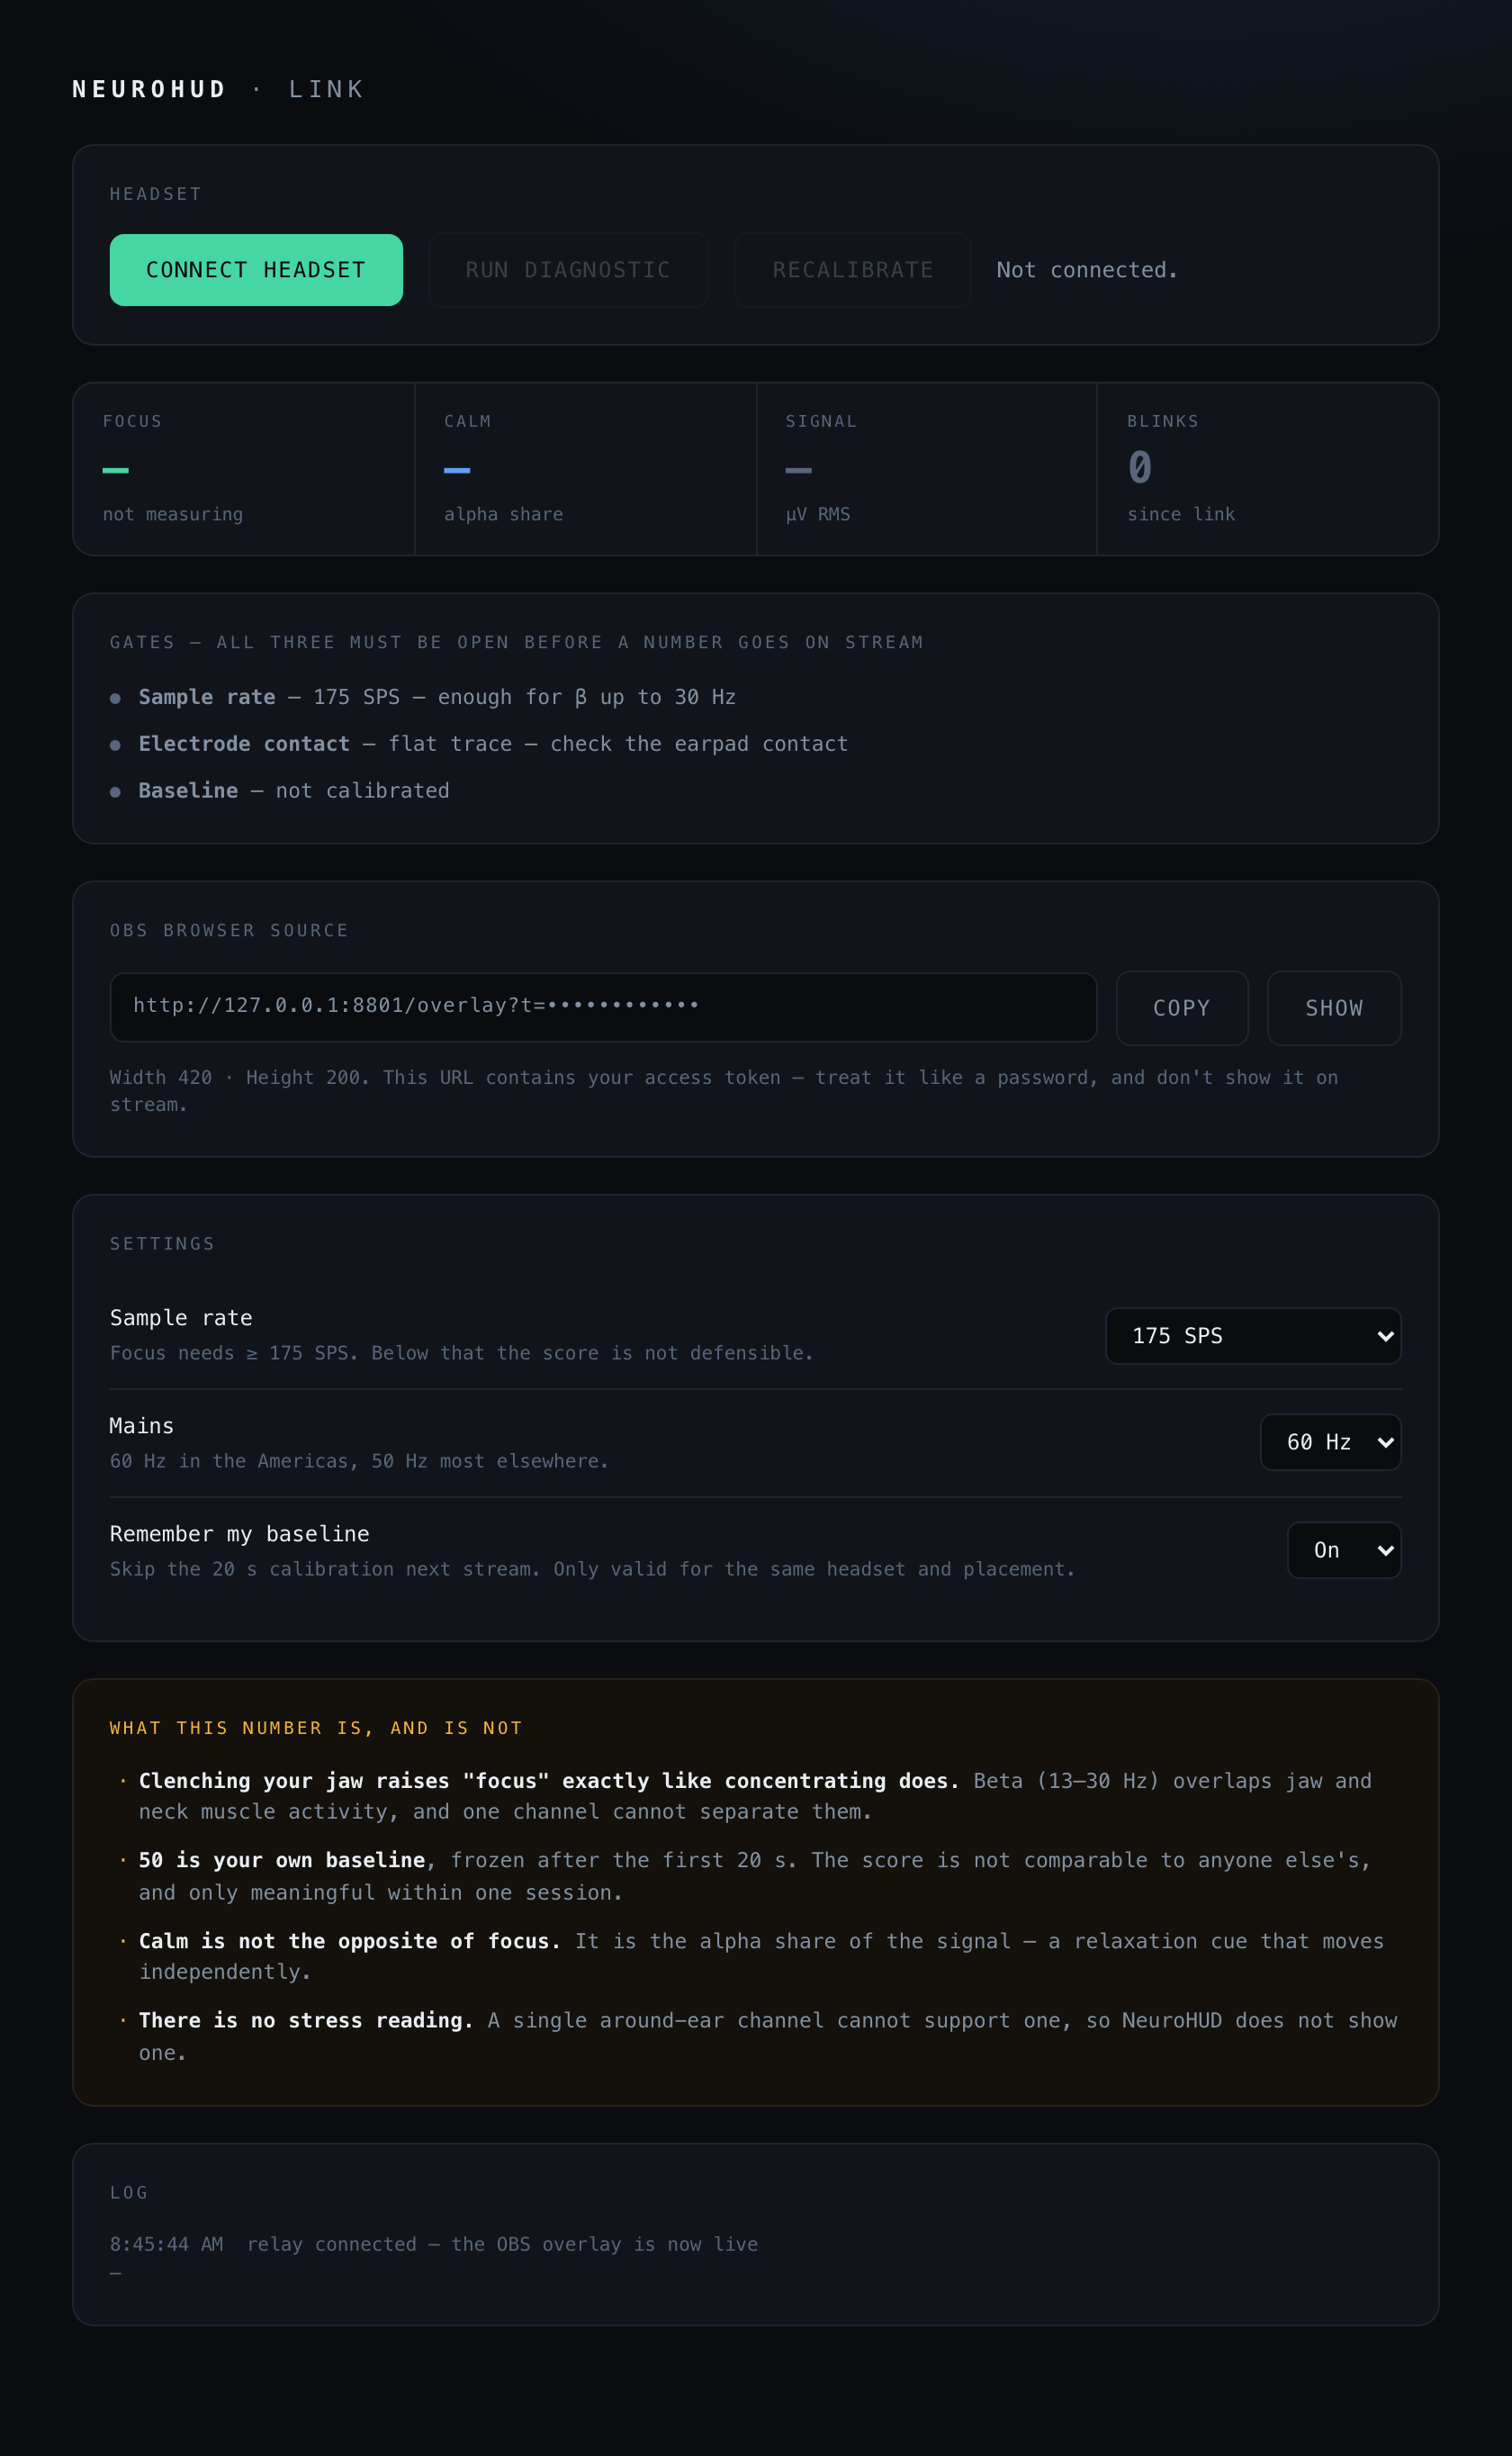
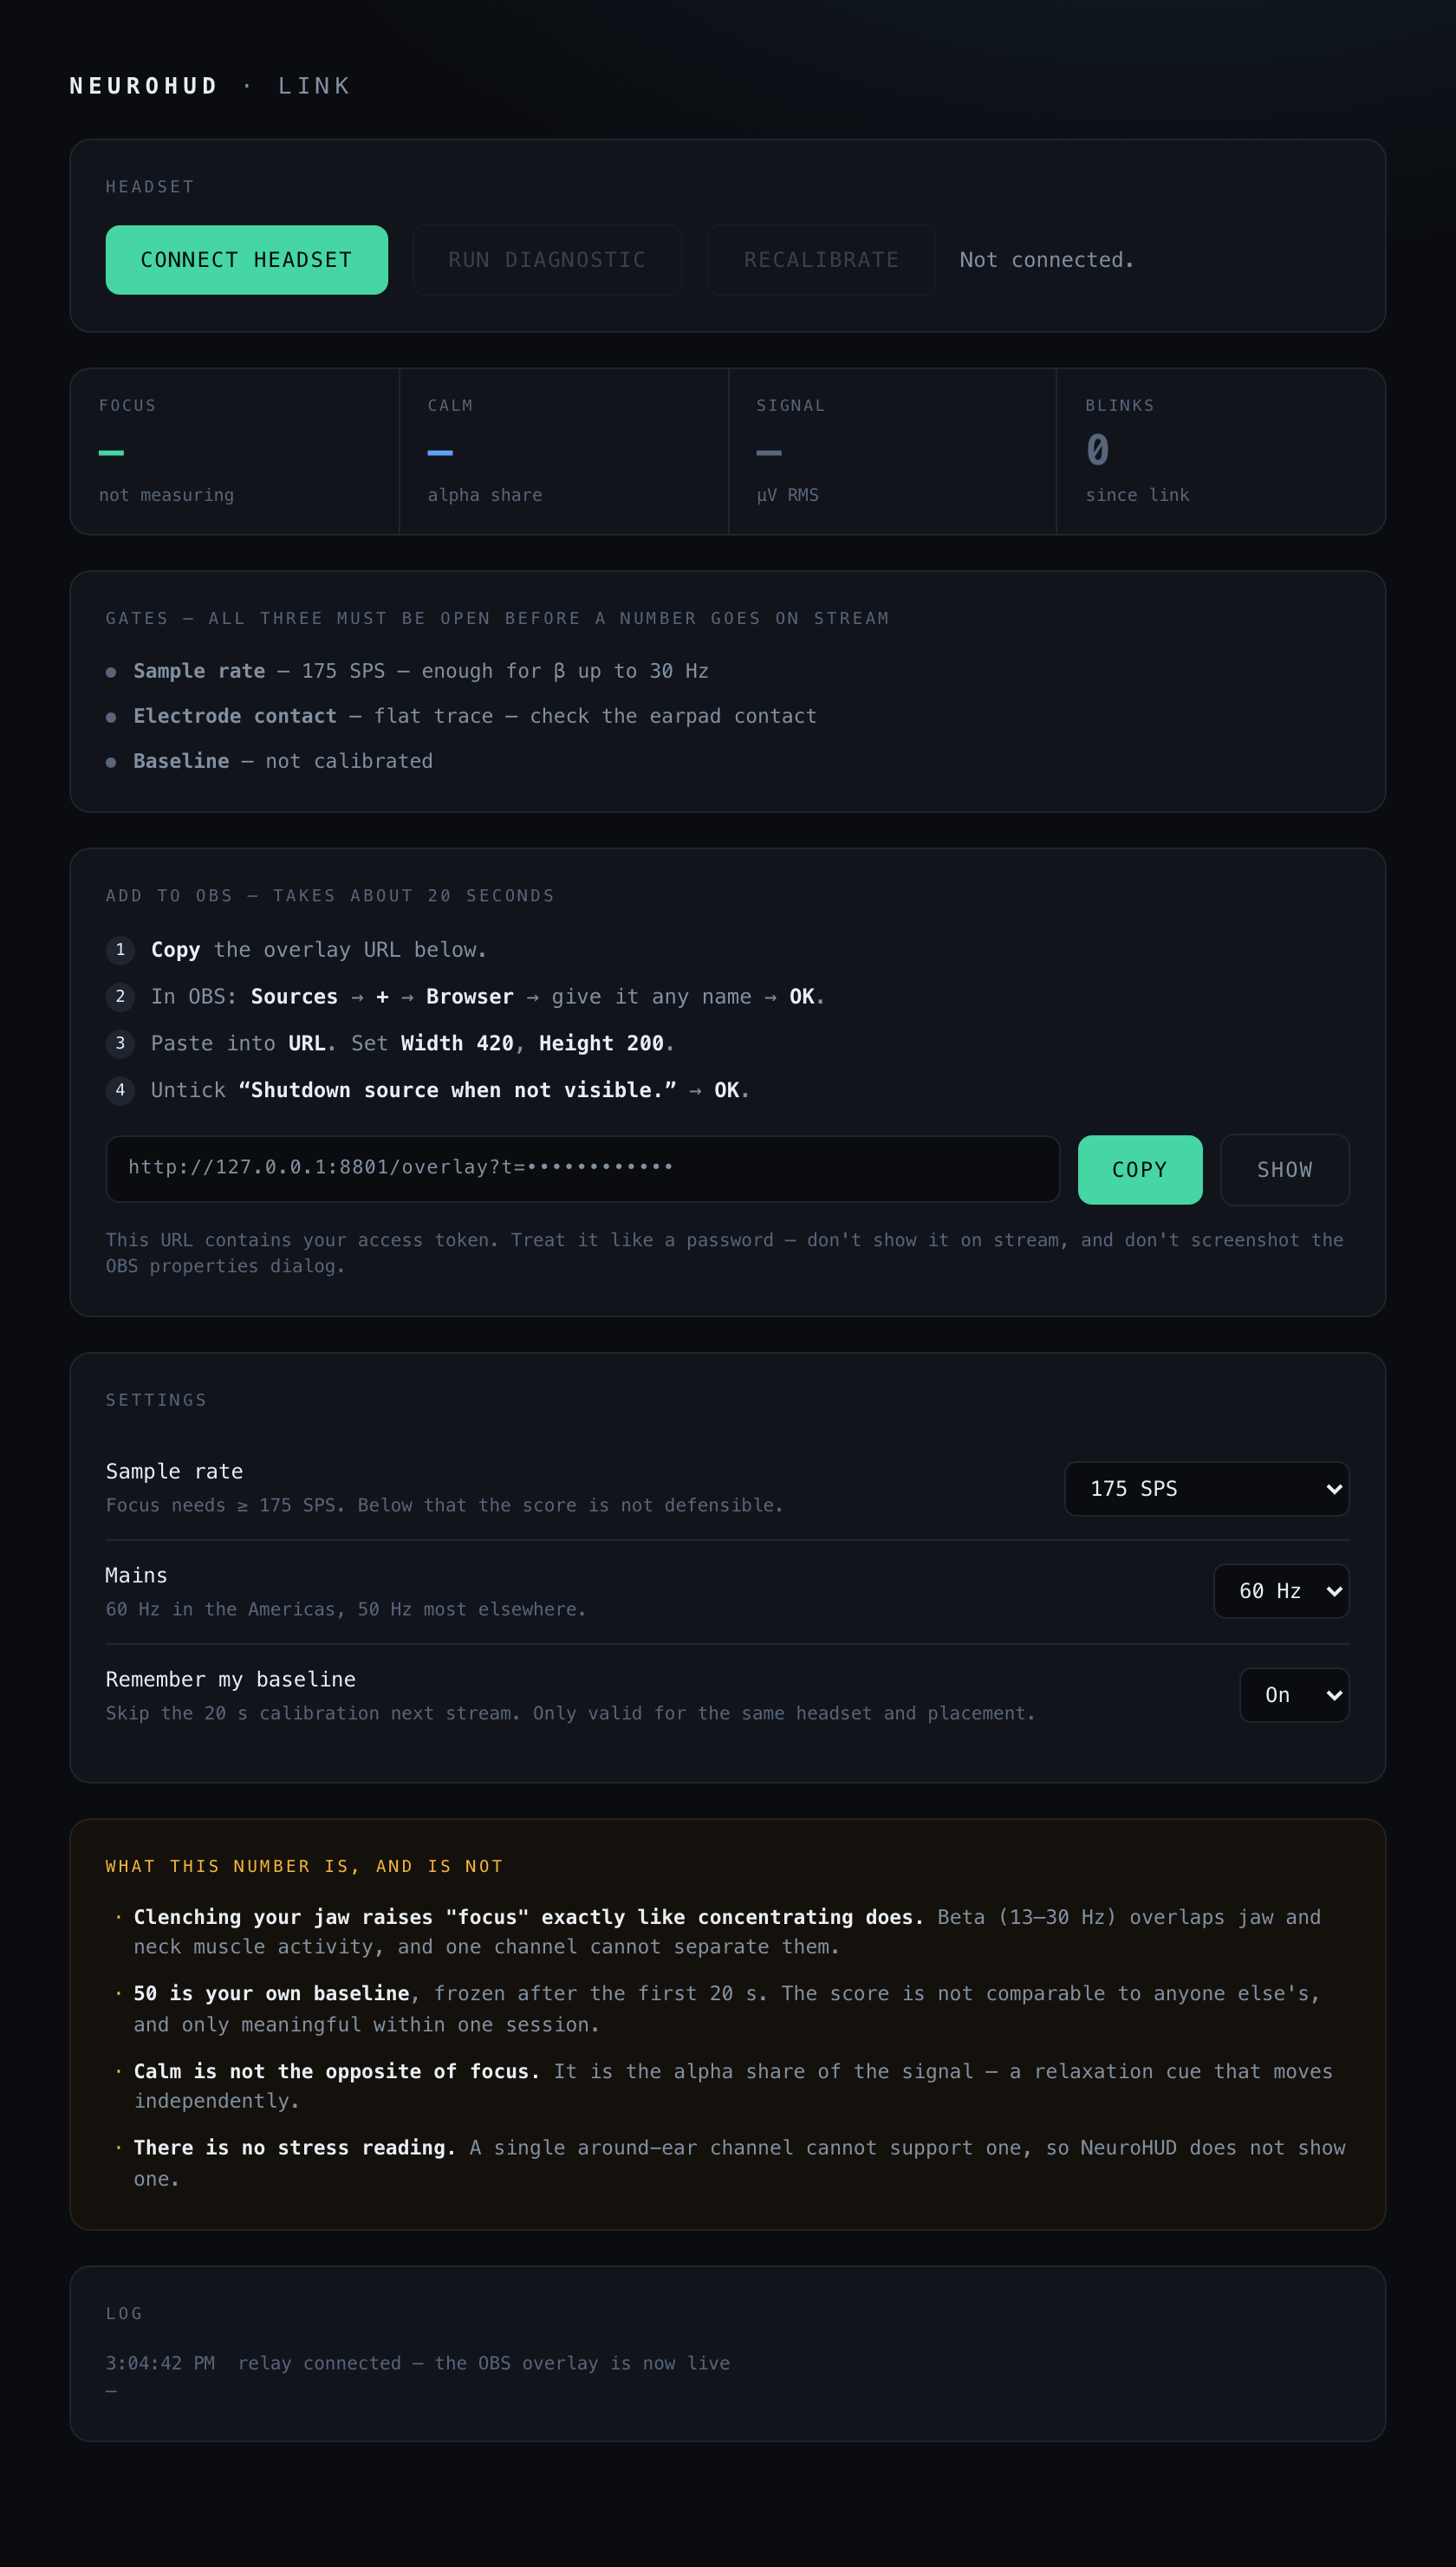
Ship standalone binaries: download one file, run it, browser opens
Answering "how does a user actually run this?" Before: install Bun, clone, bun
install, bun start, read a 43-char token out of a terminal, copy two URLs. That
is a developer onboarding, not a streamer one.

Now: download one file from Releases, run it, and the setup page opens by itself.
Connect the headset, hit Copy, paste into an OBS Browser Source. No terminal, no
Node, no git.

Fixes a bug that made the binary impossible:

  import.meta.url does not point anywhere real inside a `bun build --compile`
  binary — modules live in Bun's virtual filesystem (/$bunfs/root). Walking `..`
  from there resolved to `/`, so the server died on boot trying to mkdir /state:
  EROFS, read-only file system. It crashed instantly for anyone who ran the
  binary, while `bun start` from source worked perfectly. config.ts now detects
  the compiled case and uses the OS user-data directory (~/Library/Application
  Support/NeuroHUD, %APPDATA%\NeuroHUD, ~/.local/share/neurohud) — the binary may
  well sit in Downloads or on a read-only volume.

- server auto-opens the setup page (--no-open / NEUROHUD_NO_OPEN to suppress)
- the link page now spells out the four OBS steps, token masked until asked for
- scripts/build-binaries.ts cross-compiles macOS arm64/x64, Windows, Linux

Verified the macOS binary end-to-end from an empty directory: pages served,
bundled JS served, token generated 0600 in the user-data dir, 403 without it,
[…]

diff --git a/src/link/index.html b/src/link/index.html
@@ -240,6 +240,46 @@
 
 			/* ── overlay URL ────────────────────────────────────────────────────────── */
 
+			#obs-steps {
+				list-style: none;
+				counter-reset: step;
+				display: grid;
+				gap: 9px;
+				margin-bottom: 16px;
+			}
+			#obs-steps li {
+				counter-increment: step;
+				position: relative;
+				padding-left: 26px;
+				font-size: 12px;
+				color: var(--ink-dim);
+			}
+			#obs-steps li::before {
+				content: counter(step);
+				position: absolute;
+				left: 0;
+				top: 1px;
+				width: 17px;
+				height: 17px;
+				border-radius: 50%;
+				background: var(--edge);
+				color: var(--ink);
+				font-size: 9.5px;
+				display: grid;
+				place-items: center;
+			}
+			#obs-steps b {
+				color: var(--ink);
+				font-weight: 600;
+			}
+
+			.warn-line {
+				margin-top: 12px;
+				font-size: 10.5px;
+				line-height: 1.5;
+				color: var(--ink-faint);
+			}
+
 			#url-box {
 				display: flex;
 				gap: 10px;
@@ -362,15 +402,24 @@
 			</section>
 
 			<section class="card">
-				<h2>OBS browser source</h2>
+				<h2>Add to OBS — takes about 20 seconds</h2>
+
+				<ol id="obs-steps">
+					<li><b>Copy</b> the overlay URL below.</li>
+					<li>In OBS: <b>Sources</b> → <b>+</b> → <b>Browser</b> → give it any name → <b>OK</b>.</li>
+					<li>Paste into <b>URL</b>. Set <b>Width 420</b>, <b>Height 200</b>.</li>
+					<li>Untick <b>“Shutdown source when not visible.”</b> → <b>OK</b>.</li>
+				</ol>
+
 				<div id="url-box">
 					<div id="overlay-url" class="masked">—</div>
-					<button id="copy" class="ghost">Copy</button>
+					<button id="copy">Copy</button>
 					<button id="reveal" class="ghost">Show</button>
 				</div>
-				<p class="desc" style="margin-top: 10px; color: var(--ink-faint); font-size: 10.5px">
-					Width 420 · Height 200. This URL contains your access token — treat it like a
-					password, and don't show it on stream.
+
+				<p class="warn-line">
+					This URL contains your access token. Treat it like a password — don't show it on
+					stream, and don't screenshot the OBS properties dialog.
 				</p>
 			</section>
 

diff --git a/scripts/build-binaries.ts b/scripts/build-binaries.ts
@@ -1,0 +1,44 @@
+// Build standalone, single-file executables — no Bun, no Node, no git, no terminal literacy.
+//
+//   bun run build          → dist/neurohud-<platform>[.exe]
+//
+// This is the difference between "developers can use this" and "streamers can use this". A
+// streamer downloads one file, runs it, and their browser opens on the setup page. Everything
+// else — the headset, the OBS URL — happens there.
+
+import { $ } from 'bun';
+import { mkdir, rm } from 'node:fs/promises';
+import { join } from 'node:path';
+
+const ROOT = join(import.meta.dirname, '..');
+const DIST = join(ROOT, 'dist');
+
+/** Bun's cross-compilation targets. macOS arm64 is the dev box; the rest are cross-built. */
+const TARGETS = [
+	{ target: 'bun-darwin-arm64', out: 'neurohud-macos-arm64', label: 'macOS (Apple Silicon)' },
+	{ target: 'bun-darwin-x64', out: 'neurohud-macos-x64', label: 'macOS (Intel)' },
+	{ target: 'bun-windows-x64', out: 'neurohud-windows-x64.exe', label: 'Windows' },
+	{ target: 'bun-linux-x64', out: 'neurohud-linux-x64', label: 'Linux' }
+] as const;
+
+await rm(DIST, { recursive: true, force: true });
+await mkdir(DIST, { recursive: true });
+
+for (const { target, out, label } of TARGETS) {
+	process.stdout.write(`  ${label.padEnd(24)} `);
+	try {
+		await $`bun build --compile --minify --target=${target} ${join(ROOT, 'server.ts')} --outfile ${join(DIST, out)}`.quiet();
+		const size = Bun.file(join(DIST, out)).size;
+		console.log(`✓ dist/${out}  (${(size / 1e6).toFixed(0)} MB)`);
+	} catch (e) {
+		console.log(`✗ ${e instanceof Error ? e.message.split('\n')[0] : e}`);
+	}
+}
+
+console.log(`
+  Each binary embeds the Bun runtime, both pages, and the DSP. Nothing else to install.
+
+  On first run it generates its access token into the OS user-data directory
+  (~/Library/Application Support/NeuroHUD, %APPDATA%\\NeuroHUD, ~/.local/share/neurohud)
+  — NOT next to the executable, which may sit in Downloads or on a read-only volume.
+`);

diff --git a/src/lib/config.ts b/src/lib/config.ts
@@ -1,16 +1,51 @@
 // Runtime configuration. Nothing here is hardcoded and nothing here is committed — the token is
-// generated on first run and lives in `state/`, which is gitignored.
+// generated on first run and lives in the state directory, which is gitignored.
 
 import { existsSync, mkdirSync, readFileSync, writeFileSync, chmodSync } from 'node:fs';
+import { homedir, platform } from 'node:os';
 import { dirname, join, resolve } from 'node:path';
 import { fileURLToPath } from 'node:url';
 
 import { generateToken } from './security';
 
-const ROOT = resolve(dirname(fileURLToPath(import.meta.url)), '..', '..');
+/**
+ * True when running from a `bun build --compile` binary rather than from source.
+ *
+ * Inside a standalone binary the module lives in Bun's virtual filesystem (`/$bunfs/root` on
+ * unix, `B:\~BUN\root` on Windows), so `import.meta.url` does NOT point at anywhere real. Walking
+ * `..` from there used to resolve to `/`, and the server died on boot trying to `mkdir /state`
+ * — EROFS. A streamer double-clicking the binary would have seen it crash instantly.
+ */
+const COMPILED = /[\\/]\$bunfs[\\/]|~BUN/.test(import.meta.url);
 
-/** Generated secrets, the OBS text-source mirror. Gitignored — never commit this directory. */
-export const STATE_DIR = join(ROOT, 'state');
+/**
+ * Where the generated token and the OBS text mirror live.
+ *
+ * From source: `state/` in the repo, which is gitignored and easy to find.
+ * From a binary: the OS's per-user data directory, because the binary may sit anywhere — in
+ * Downloads, on a read-only volume, or in a directory the user cannot write to.
+ */
+function stateDir(): string {
+	const override = process.env.NEUROHUD_STATE_DIR;
+	if (override) return override;
+
+	if (!COMPILED) {
+		return join(resolve(dirname(fileURLToPath(import.meta.url)), '..', '..'), 'state');
+	}
+
+	const home = homedir();
+	switch (platform()) {
+		case 'darwin':
+			return join(home, 'Library', 'Application Support', 'NeuroHUD');
+		case 'win32':
+			return join(process.env.APPDATA ?? join(home, 'AppData', 'Roaming'), 'NeuroHUD');
+		default:
+			return join(process.env.XDG_DATA_HOME ?? join(home, '.local', 'share'), 'neurohud');
+	}
+}
+
+/** Generated secrets, and the OBS text-source mirror. Never commit this directory. */
+export const STATE_DIR = stateDir();
 export const TOKEN_FILE = join(STATE_DIR, 'token');
 export const TEXT_FILE = join(STATE_DIR, 'focus.txt');
 

diff --git a/server.ts b/server.ts
@@ -19,7 +19,9 @@
 // See `src/lib/security.ts` for why an *unauthenticated* localhost WebSocket is a hole and not
 // a convenience.
 
+import { spawn } from 'node:child_process';
 import { mkdir, writeFile } from 'node:fs/promises';
+import { platform } from 'node:os';
 
 import linkPage from './src/link/index.html';
 import overlayPage from './src/overlay/index.html';
@@ -194,20 +196,17 @@ function log(msg: string): void {
 }
 
 const link = `${cfg.origin}/link?t=${cfg.token}`;
-const overlay = `${cfg.origin}/overlay?t=${cfg.token}`;
 
 console.log(`
   ┌─ NeuroHUD ─────────────────────────────────────────────────────────────
 
-  1 ·  Open in Chrome, and link your headset
-       ${link}
+  Opening the setup page in your browser…
 
-  2 ·  OBS  →  Sources  +  →  Browser  →  paste as URL
-       ${overlay}
-       Width 420  ·  Height 200  ·  untick "Shutdown source when not visible"
+  If it doesn't open, paste this in yourself:
+  ${link}
 
-  Focus needs ≥ 175 SPS. Calibration takes 20 s — do it before you go live.
-  No-graphics alternative:  OBS → Text (GDI+) → Read from file → state/focus.txt
+  Everything you need — connect the headset, copy the OBS URL — is on that page.
+  Leave this window running while you stream.
 ${
 	cfg.exposed
 		? `
@@ -217,7 +216,30 @@ ${
 `
 		: ''
 }
-  Those URLs carry your token — treat them like a password. Don't show them on
-  stream, and don't screenshot the OBS browser-source properties dialog.
+  That URL carries your access token — treat it like a password. Don't show this
+  window on stream.
+
+  state: ${STATE_DIR}
   └────────────────────────────────────────────────────────────────────────
 `);
+
+/**
+ * Open the setup page for them.
+ *
+ * The alternative is asking a streamer to copy a 43-character token out of a terminal window,
+ * which is the kind of step that turns "I'll try this" into "I'll try this later". Suppress with
+ * `--no-open` or `NEUROHUD_NO_OPEN=1` (CI, headless boxes, and anyone who finds it rude).
+ */
+function openBrowser(url: string): void {
+	if (process.argv.includes('--no-open') || process.env.NEUROHUD_NO_OPEN) return;
+	const cmd =
+		platform() === 'darwin' ? 'open' : platform() === 'win32' ? 'cmd' : 'xdg-open';
+	const args = platform() === 'win32' ? ['/c', 'start', '', url] : [url];
+	try {
+		spawn(cmd, args, { detached: true, stdio: 'ignore' }).unref();
+	} catch {
+		/* the URL is printed above; a headless box simply has nothing to open */
+	}
+}
+
+openBrowser(link);

diff --git a/playwright.config.ts b/playwright.config.ts
@@ -24,7 +24,7 @@ export default defineConfig({
 		command: 'bun run server.ts',
 		url: `http://127.0.0.1:${PORT}/health`,
 		reuseExistingServer: false,
-		env: { NEUROHUD_PORT: PORT, NEUROHUD_TOKEN: TOKEN },
+		env: { NEUROHUD_PORT: PORT, NEUROHUD_TOKEN: TOKEN, NEUROHUD_NO_OPEN: '1' },
 		stdout: 'pipe'
 	}
 });

diff --git a/scripts/shoot.ts b/scripts/shoot.ts
@@ -81,7 +81,7 @@ const tel = (over: Partial<LinkSnapshot> = {}): Telemetry =>
 const token = generateToken();
 const server = spawn('bun', ['run', 'server.ts'], {
 	cwd: ROOT,
-	env: { ...process.env, NEUROHUD_PORT: String(PORT), NEUROHUD_TOKEN: token },
+	env: { ...process.env, NEUROHUD_PORT: String(PORT), NEUROHUD_TOKEN: token, NEUROHUD_NO_OPEN: '1' },
 	stdio: 'ignore'
 });
 await new Promise((r) => setTimeout(r, 1200));

diff --git a/CLAUDE.md b/CLAUDE.md
@@ -70,6 +70,13 @@ CORS preflight**.
 
 ## Things that will bite you
 
+- **`import.meta.url` is not a real path inside a compiled binary.** `bun build --compile` puts
+  modules in a virtual filesystem (`/$bunfs/root`, or `B:\~BUN\root` on Windows), so walking `..`
+  from it used to resolve to `/` — and the server died on boot with `EROFS: mkdir '/state'`. A
+  streamer double-clicking the binary saw it crash instantly, while `bun start` from source worked
+  perfectly. `config.ts` detects this and uses the OS user-data directory. **Always test the
+  binary, not just `bun start`** — they resolve paths differently.
+
 - **`src/lib/{ble,dsp,focus,adc}.ts` are VENDORED** from `web-ble-monitor`, byte-identical, with a
   banner saying so. Edit them upstream and re-run `bun run sync:lib`. `bun run check:lib` fails
   the build on drift — that is the point, and it is why the copies must stay byte-identical.